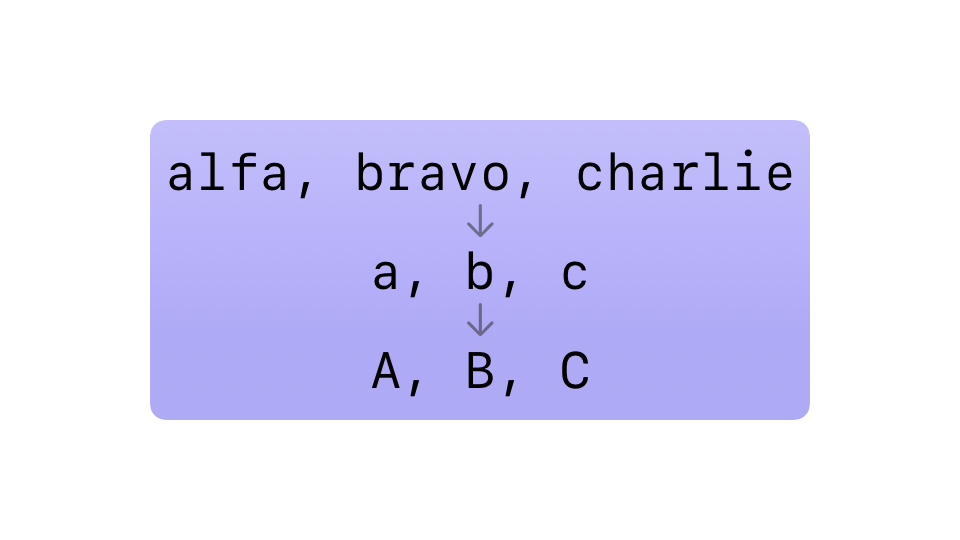
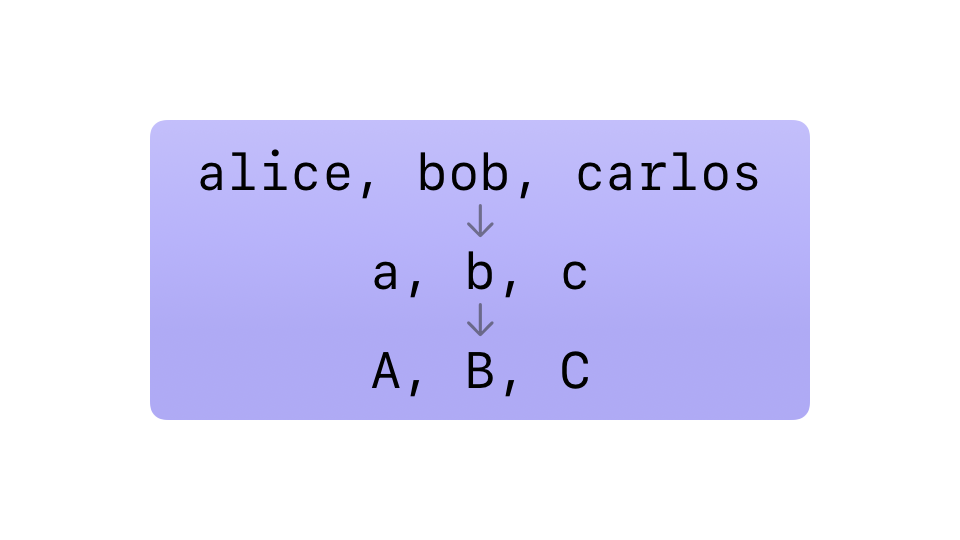
update format-styles card illustration

Changed region(s): [[0.1562, 0.2667, 0.5312, 0.3556], [0.625, 0.2667, 0.8438, 0.3556]]

diff --git a/sources/illustrations/CardIllustrations.swift b/sources/illustrations/CardIllustrations.swift
@@ -12,7 +12,7 @@ struct CardIllustrations {
     static var formatStyles: DocumentationIllustration {
         DocumentationIllustration(sizing: .card.half, drawsBorder: false) {
             VStack {
-                Text("alfa, bravo, charlie")
+                Text("alice, bob, carlos")
                     .monospaced()
                 Image(systemName: "arrow.down")
                     .font(.caption)
